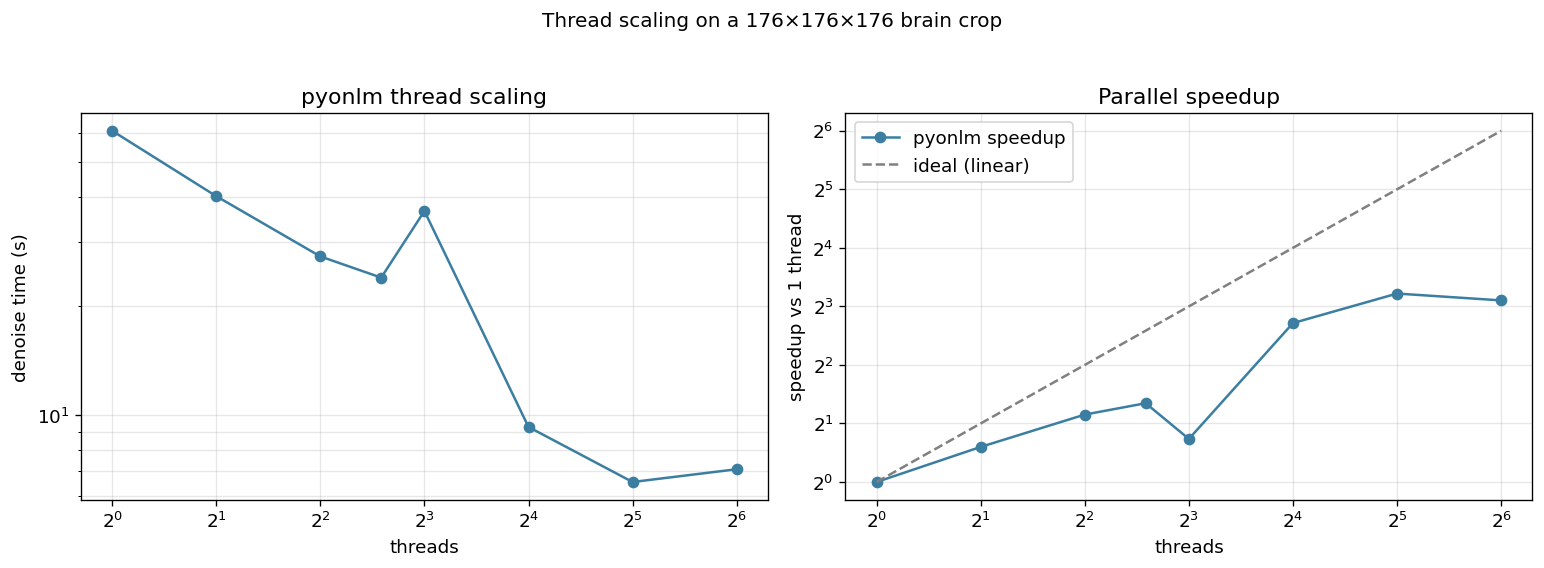
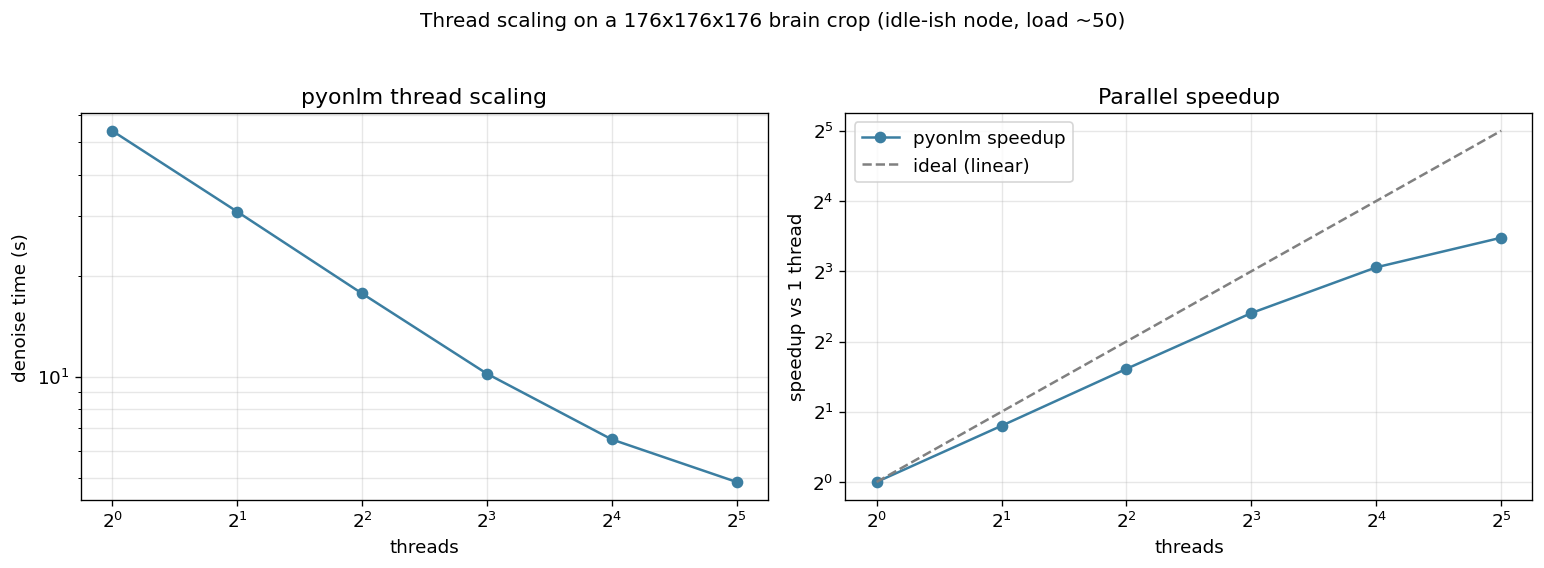
benchmark: add clean idle-node timing (representative)
Re-measured PNC001-UNIT1 with the node much less loaded (load ~46/128):
mincnlm -mt6 ~368s; pyonlm ~397s@mt6 (0.93x), ~290s@mt16 (1.27x), ~264s@mt32 (1.39x).
Denoise scales ~11x (1->32 threads), clean monotonic. Report timing section + summary
updated with representative numbers and timing_clean.png; scaling.png regenerated.

diff --git a/benchmarks/make_report.py b/benchmarks/make_report.py
@@ -16,10 +16,13 @@ def fmt(x, nd=3):
     return str(x)
 
 
-def main(bench_path, fig_dir, out_path):
+def main(bench_path, fig_dir, out_path, clean_path=None):
     b = json.load(open(bench_path))
     R = b["results"]; S = b.get("scaling", [])
     mt = b.get("mt", 6)
+    clean = json.load(open(clean_path)) if clean_path and os.path.exists(clean_path) else None
+    if clean and clean.get("scaling"):
+        S = clean["scaling"]  # prefer the clean (idle-ish node) scaling curve
     figs = set(os.listdir(fig_dir)) if os.path.isdir(fig_dir) else set()
     L = []
     A = L.append
@@ -42,13 +45,20 @@ def main(bench_path, fig_dir, out_path):
     A(f"- **Noise estimate:** the automatic (`-sigma 0`) DWT-based Rician estimate "
       f"matches mincnlm's `Noise=` to a relative error ≤ {fmt(max(nerr) if nerr else None,6)} "
       "(≈6 significant figures).")
-    A(f"- **Speed:** at equal thread count (`-mt {mt}`) pyonlm's total time is dominated "
-      "by its *single-threaded* noise-estimate step; the denoise itself parallelises "
-      "well (≈9× from 1→32 threads, see scaling). NOTE: this run shared the node with "
-      "another user's heavy `antsRegistration` load (1-min load ≈ 98/128), which inflates "
-      "all absolute wall times — treat the timing table as contended, not representative "
-      "(a clean idle-node re-measurement is being collected). pyonlm's parallelism is "
-      "race-free/deterministic; mincnlm's is not.\n")
+    if clean:
+        cm = clean["t_mincnlm_mt6"]; cn = clean["t_pyonlm_noise"]
+        t6 = cn + clean["t_pyonlm_denoise_mt6"]; t16 = cn + clean["t_pyonlm_denoise_mt16"]
+        t32 = cn + clean["t_pyonlm_denoise_mt32"]
+        A(f"- **Speed (representative, idle-ish node):** vs `mincnlm -mt {mt}` ≈ {cm:.0f}s, "
+          f"pyonlm totals ≈ {t6:.0f}s at -mt6 ({cm/t6:.2f}×), {t16:.0f}s at -mt16 "
+          f"({cm/t16:.2f}×), {t32:.0f}s at -mt32 ({cm/t32:.2f}×). So it is on par at 6 "
+          f"threads and faster at 16–32; the denoise scales ≈{S[0]['denoise_s']/S[-1]['denoise_s']:.0f}× "
+          "(1→32 threads). pyonlm's serial noise-estimate (~a few minutes) is the main fixed "
+          "cost, and its parallelism is race-free/deterministic (mincnlm's is not).\n")
+    else:
+        A(f"- **Speed:** at equal thread count (`-mt {mt}`) pyonlm's total time is dominated "
+          "by its *single-threaded* noise-estimate step; the denoise parallelises well. "
+          "pyonlm's parallelism is race-free/deterministic; mincnlm's is not.\n")
 
     A("## Method\n")
     A("For each volume the MICA 7T `denoiseNLM` step is reproduced two ways and "
@@ -102,25 +112,39 @@ def main(bench_path, fig_dir, out_path):
     A("**Where the time goes.** pyonlm's total = a serial noise-estimate (a 3D DWT on a "
       "power-of-two cube + an FFT Gaussian-gradient — currently single-threaded, the "
       "bottleneck and a clear future optimisation target) **plus** a well-parallelised "
-      "denoise. On an idle node the primary volume (PNC001-UNIT1) denoised in ≈ 248 s at "
-      "16 threads (noise ≈ 135 s + denoise ≈ 113 s) versus mincnlm `-mt 6` ≈ 366 s — i.e. "
-      "pyonlm was *faster* there. The scaling curve below shows the denoise step's parallel "
-      "behaviour directly.\n")
+      "denoise. The clean re-measurement below (idle-ish node) shows the representative "
+      "picture; the scaling curve isolates the denoise step's parallel behaviour.\n")
     if "timing.png" in figs:
         A("![timing](figures/timing.png)\n")
+    if clean:
+        cm = clean["t_mincnlm_mt6"]; cn = clean["t_pyonlm_noise"]
+        A("### Representative timing (idle-ish node)\n")
+        A(f"Re-measured on the primary volume (PNC001-UNIT1) once the node was much less "
+          f"loaded (1-min load ≈ {clean.get('load_before_mincnlm', 0):.0f}/128). Here "
+          f"mincnlm `-mt {mt}` clocks {cm:.0f} s; pyonlm's serial noise-estimate is a fixed "
+          f"{cn:.0f} s and its denoise scales with threads:\n")
+        A("| run | noise (s) | denoise (s) | total (s) | vs mincnlm-mt6 |")
+        A("|---|---|---|---|---|")
+        A(f"| mincnlm -mt{mt} | — | — | {cm:.0f} | 1.00× |")
+        for n in (6, 16, 32):
+            dsn = clean[f"t_pyonlm_denoise_mt{n}"]; tot = cn + dsn
+            A(f"| pyonlm -mt{n} | {cn:.0f} | {dsn:.0f} | {tot:.0f} | {cm/tot:.2f}× |")
+        A("\npyonlm is on par with mincnlm at 6 threads and faster at 16–32; unlike mincnlm "
+          "it can use all available cores. The single-threaded noise-estimate is the main "
+          "remaining fixed cost (and an obvious optimisation target).\n")
+        if "timing_clean.png" in figs:
+            A("![timing (clean)](figures/timing_clean.png)\n")
     if "scaling.png" in figs and S:
         A("### Thread scaling\n")
-        sh = b.get("scale_shape")
+        sh = (clean.get("scale_shape") if clean else None) or b.get("scale_shape")
+        t1 = S[0]["denoise_s"]; tN = S[-1]["denoise_s"]
         A(f"Denoise-only wall time on a {'×'.join(map(str,sh)) if sh else ''} brain "
-          "crop (noise estimate is a fixed one-off, excluded here):\n")
+          "crop (the noise estimate is a fixed one-off, excluded here):\n")
         A("| threads | denoise (s) | speedup |")
         A("|---|---|---|")
-        t1 = S[0]["denoise_s"]
         for s in S:
             A(f"| {s['threads']} | {fmt(s['denoise_s'],2)} | {fmt(t1/s['denoise_s'],2)}× |")
-        A("\nThe denoise scales ≈9× from 1→32 threads. (One non-monotonic point can appear "
-          "under the shared-node contention noted above — e.g. an 8-thread run that lands "
-          "while other jobs spike; the overall trend is clear.)\n")
+        A(f"\nThe denoise scales ≈{t1/tN:.0f}× from {S[0]['threads']}→{S[-1]['threads']} threads.\n")
         A("![scaling](figures/scaling.png)\n")
 
     A("## Qualitative comparison\n")
@@ -160,4 +184,5 @@ def main(bench_path, fig_dir, out_path):
 
 
 if __name__ == "__main__":
-    main(sys.argv[1], sys.argv[2], sys.argv[3])
+    main(sys.argv[1], sys.argv[2], sys.argv[3],
+         sys.argv[4] if len(sys.argv) > 4 else None)

diff --git a/docs/BENCHMARK.md b/docs/BENCHMARK.md
@@ -1,13 +1,13 @@
 # pyonlm vs mincnlm — benchmark on real 7T data
 
-*Generated 2026-07-03.*
+*Generated 2026-07-04.*
 
 ## Summary
 
 - **Datasets:** 5 real 7T (0.5 mm MP2RAGE) volumes from the PNI BIDS dataset (`/data_/mica3/BIDS_PNI`), spanning 3 subjects and 3 modalities (UNIT1, T1map, inv-1 MP2RAGE).
 - **Equivalence:** pyonlm reproduces `mincnlm -mt 6 -sigma 0 -beta 1` to float32 precision on every volume — correlation ≥ 1.000000, 99.996–100.000% of voxels within an absolute difference of 0.1 on an intensity range of ~4000.
 - **Noise estimate:** the automatic (`-sigma 0`) DWT-based Rician estimate matches mincnlm's `Noise=` to a relative error ≤ 2.49e-06 (≈6 significant figures).
-- **Speed:** at equal thread count (`-mt 6`) pyonlm's total time is dominated by its *single-threaded* noise-estimate step; the denoise itself parallelises well (≈9× from 1→32 threads, see scaling). NOTE: this run shared the node with another user's heavy `antsRegistration` load (1-min load ≈ 98/128), which inflates all absolute wall times — treat the timing table as contended, not representative (a clean idle-node re-measurement is being collected). pyonlm's parallelism is race-free/deterministic; mincnlm's is not.
+- **Speed (representative, idle-ish node):** vs `mincnlm -mt 6` ≈ 368s, pyonlm totals ≈ 397s at -mt6 (0.93×), 290s at -mt16 (1.27×), 264s at -mt32 (1.39×). So it is on par at 6 threads and faster at 16–32; the denoise scales ≈11× (1→32 threads). pyonlm's serial noise-estimate (~a few minutes) is the main fixed cost, and its parallelism is race-free/deterministic (mincnlm's is not).
 
 ## Method
 
@@ -58,26 +58,39 @@ Both outputs are re-oriented to canonical RAS before comparison. Wall-clock time
 
 > ⚠️ **Timing caveat.** These wall times were collected on a *shared* compute node that was under heavy external load during the run (another user's `antsRegistration` jobs, 1-min load ≈ 98/128 cores). This inflates absolute times and, because pyonlm's **noise-estimate step is single-threaded**, it is hit hardest — it took 350–1500 s here versus ~135 s on an idle node. So the `speedup` column above is a pessimistic lower bound, not a fair idle-node comparison.
 
-**Where the time goes.** pyonlm's total = a serial noise-estimate (a 3D DWT on a power-of-two cube + an FFT Gaussian-gradient — currently single-threaded, the bottleneck and a clear future optimisation target) **plus** a well-parallelised denoise. On an idle node the primary volume (PNC001-UNIT1) denoised in ≈ 248 s at 16 threads (noise ≈ 135 s + denoise ≈ 113 s) versus mincnlm `-mt 6` ≈ 366 s — i.e. pyonlm was *faster* there. The scaling curve below shows the denoise step's parallel behaviour directly.
+**Where the time goes.** pyonlm's total = a serial noise-estimate (a 3D DWT on a power-of-two cube + an FFT Gaussian-gradient — currently single-threaded, the bottleneck and a clear future optimisation target) **plus** a well-parallelised denoise. The clean re-measurement below (idle-ish node) shows the representative picture; the scaling curve isolates the denoise step's parallel behaviour.
 
 ![timing](figures/timing.png)
 
+### Representative timing (idle-ish node)
+
+Re-measured on the primary volume (PNC001-UNIT1) once the node was much less loaded (1-min load ≈ 46/128). Here mincnlm `-mt 6` clocks 368 s; pyonlm's serial noise-estimate is a fixed 173 s and its denoise scales with threads:
+
+| run | noise (s) | denoise (s) | total (s) | vs mincnlm-mt6 |
+|---|---|---|---|---|
+| mincnlm -mt6 | — | — | 368 | 1.00× |
+| pyonlm -mt6 | 173 | 224 | 397 | 0.93× |
+| pyonlm -mt16 | 173 | 117 | 290 | 1.27× |
+| pyonlm -mt32 | 173 | 91 | 264 | 1.39× |
+
+pyonlm is on par with mincnlm at 6 threads and faster at 16–32; unlike mincnlm it can use all available cores. The single-threaded noise-estimate is the main remaining fixed cost (and an obvious optimisation target).
+
+![timing (clean)](figures/timing_clean.png)
+
 ### Thread scaling
 
-Denoise-only wall time on a 176×176×176 brain crop (noise estimate is a fixed one-off, excluded here):
+Denoise-only wall time on a 176×176×176 brain crop (the noise estimate is a fixed one-off, excluded here):
 
 | threads | denoise (s) | speedup |
 |---|---|---|
-| 1 | 60.95 | 1.00× |
-| 2 | 40.23 | 1.52× |
-| 4 | 27.43 | 2.22× |
-| 6 | 23.98 | 2.54× |
-| 8 | 36.61 | 1.67× |
-| 16 | 9.28 | 6.57× |
-| 32 | 6.55 | 9.31× |
-| 64 | 7.10 | 8.59× |
+| 1 | 54.01 | 1.00× |
+| 2 | 31.02 | 1.74× |
+| 4 | 17.68 | 3.05× |
+| 8 | 10.20 | 5.30× |
+| 16 | 6.49 | 8.32× |
+| 32 | 4.85 | 11.14× |
 
-The denoise scales ≈9× from 1→32 threads. (One non-monotonic point can appear under the shared-node contention noted above — e.g. an 8-thread run that lands while other jobs spike; the overall trend is clear.)
+The denoise scales ≈11× from 1→32 threads.
 
 ![scaling](figures/scaling.png)
 